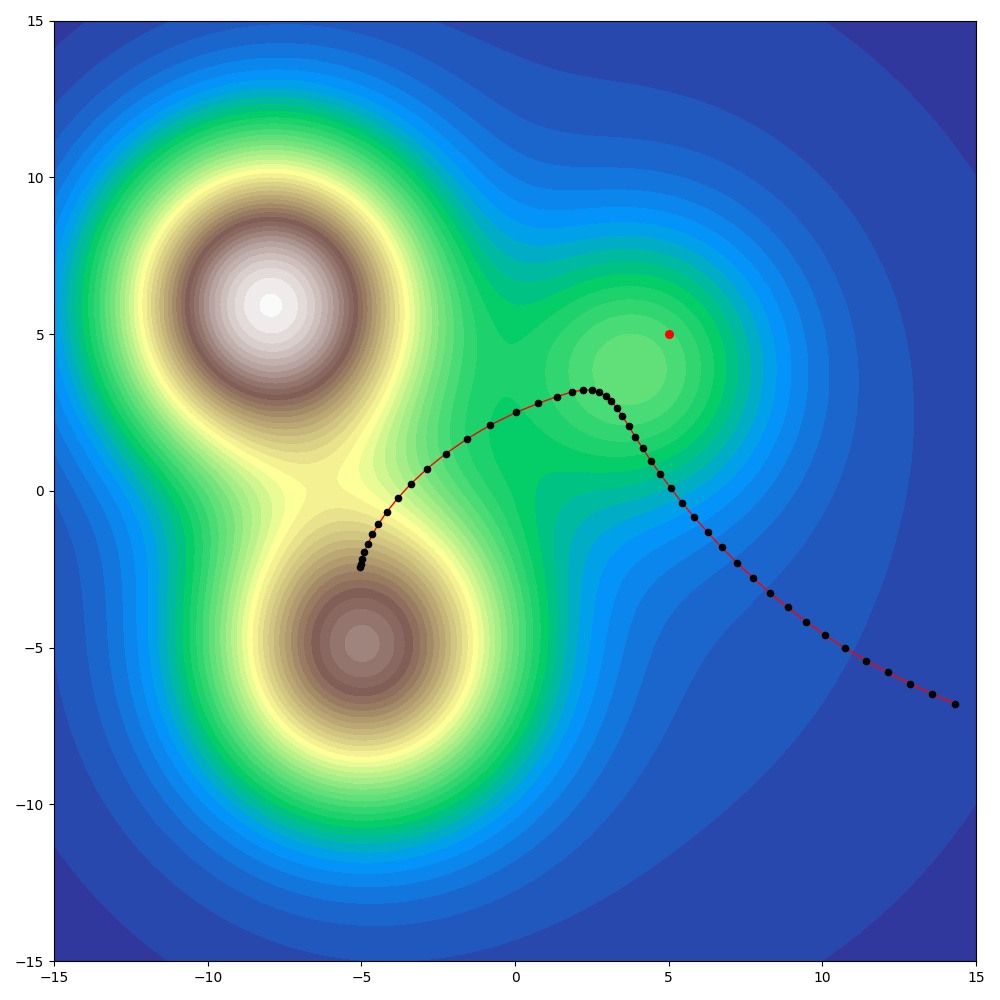
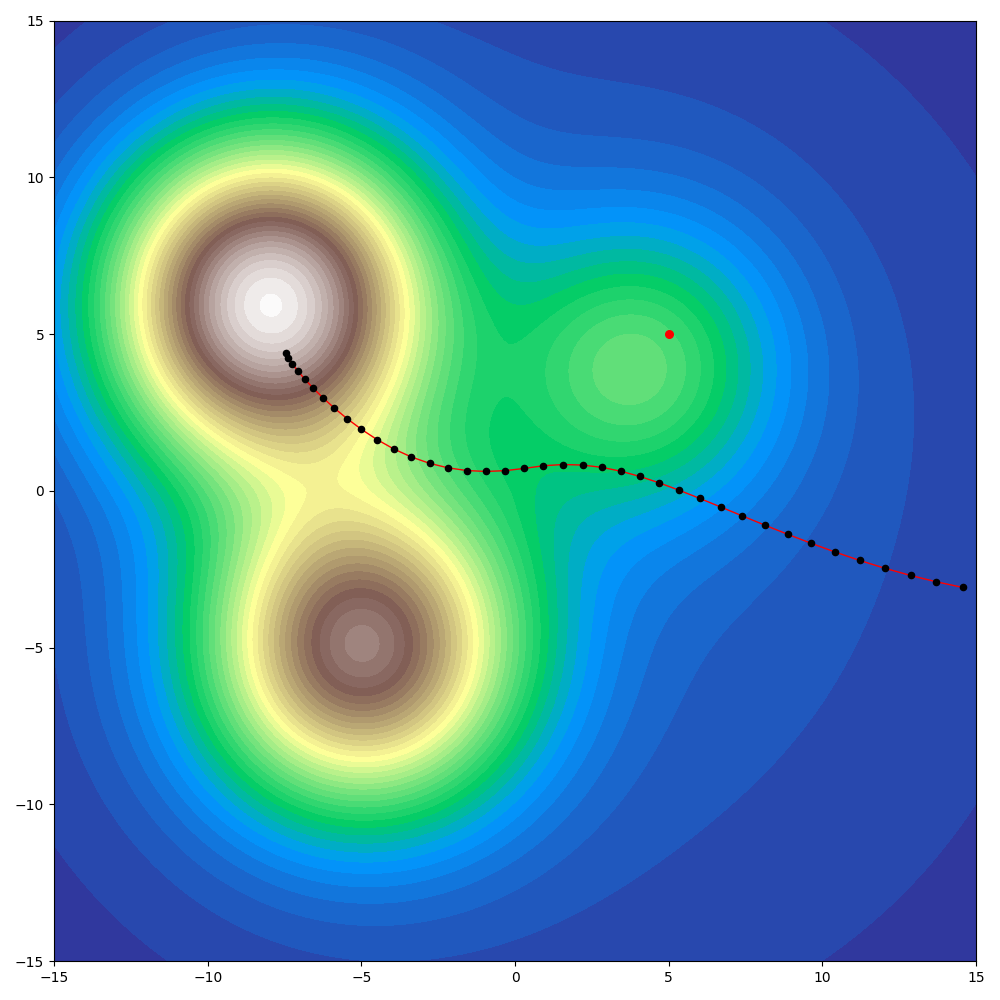
.

diff --git a/v0/BaseAgent.py b/v0/BaseAgent.py
@@ -59,7 +59,7 @@ class BaseAgent(Environment):
         self.y = y
 
 
-ba = BaseAgent(-5, -2.5)
+ba = BaseAgent(-7.5, 4.5)
 for _ in range(100):
     ba.get_step()
 PlotEnvironment(ba.get_results()).plot_mountain('mountain_steer')
